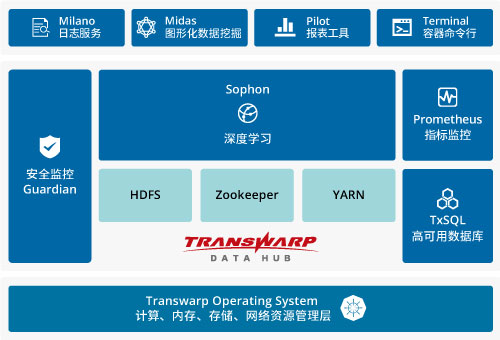
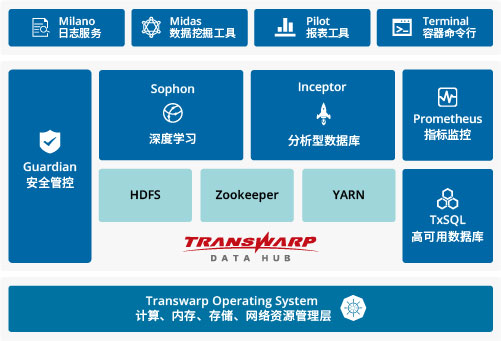
WARP-22689：[tdc-web] feature changes: 产品信息修改：深度学习

diff --git a/src/app/components/products/deep-learning/deep-learning.service.ts b/src/app/components/products/deep-learning/deep-learning.service.ts
@@ -149,6 +149,10 @@ export class DeepLearningService {
               title: '分布式系统基础架构',
               text: 'Hadoop Distributed File System (HDFS) — Apache Hadoop 项目的一个子项目 — 是一个高度容错的分布式文件系统，设计用于在低成本硬件上运行。HDFS 提供高吞吐量应用程序数据访问功能，适合带有大型数据集的应用程序。',
               link: '../../modules/product/hadoop'
+            },{
+              title: '分析型数据库',
+              text: 'Inceptor是一款用于批量处理及分析的数据库。它支持SQL 2003标准、Oracle PL/SQL以及DB2 SQL PL，对Oracle、DB2以及Teradata 都有很好的方言支持，是Hadoop领域对SQL标准支持最完善的产品。',
+              link: '../../modules/platform/inceptor'
             }]
           },
           {
